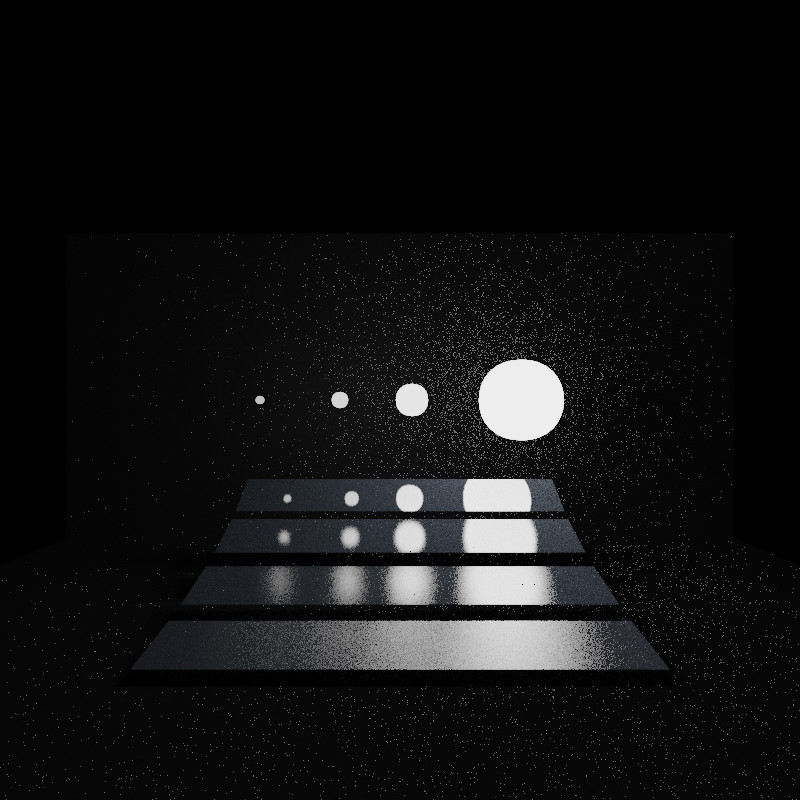
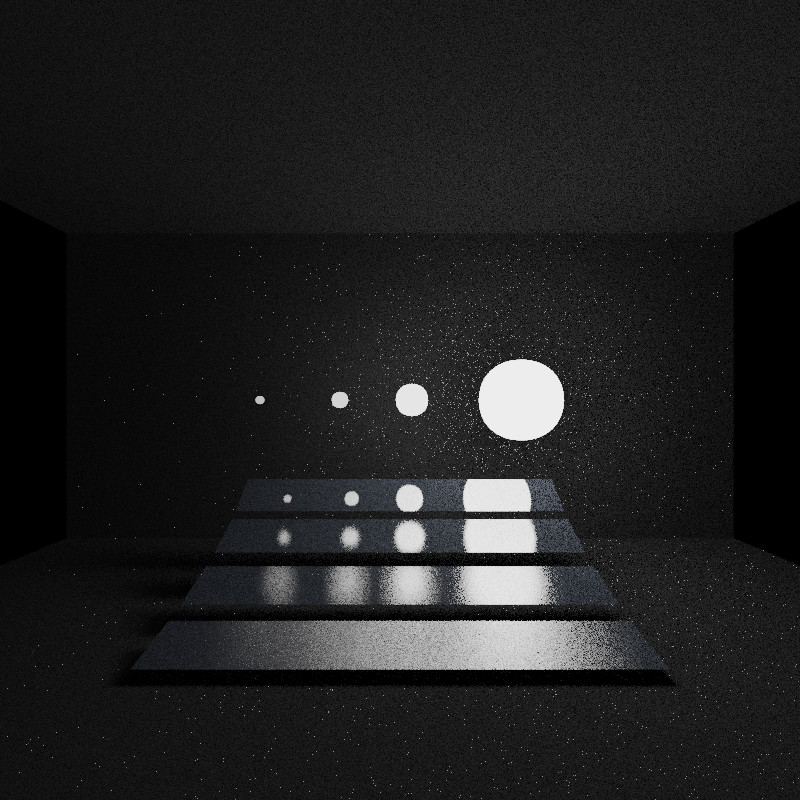
Undo faulty MIS

Changed region(s): [[0.125, 0.0, 1.0, 1.0]]

diff --git a/Src/Integrator/IndirectIlluminationIntegrator.cpp b/Src/Integrator/IndirectIlluminationIntegrator.cpp
@@ -8,6 +8,7 @@ IndirectIlluminationIntegrator::IndirectIlluminationIntegrator(Scene& scene, int
 glm::vec3 IndirectIlluminationIntegrator::EvaluateSample(RTCRayHit& ray, int depth) {
 	glm::vec3 L{ 0.0f }, beta{ 1.0f };
 	float pL{}, pB{};
+	//SurfaceIntersection prev{};
 	while (beta != glm::vec3{ 0.0f }) {
 		glm::vec3 wo{ -ray.ray.dir_x, -ray.ray.dir_y, -ray.ray.dir_z };
 		SurfaceIntersection si{ m_scene.GetIntersection(m_rtcScene, ray) };
@@ -19,21 +20,24 @@ glm::vec3 IndirectIlluminationIntegrator::EvaluateSample(RTCRayHit& ray, int dep
 				L += beta * si.shape->areaLight->Le();
 				break; // Skip if it's an emitter
 			}
-			float wB{ PowerHeuristic(pB, m_lightSampler.Pmf() * si.shape->areaLight->LiPDF()) };
-			L += wB * beta * si.shape->areaLight->Le();
+			//float wB{ PowerHeuristic(pB, m_lightSampler.Pmf() * si.shape->areaLight->LiPDF(si, prev)) };
+			//L += wB * beta * si.shape->areaLight->Le();
 		}
 
 		LiSample li{ m_lightSampler.Sample(m_sampler.GetUV1D())->SampleLi(si, m_sampler.GetUV2D()) };
-		pL = li.pdf * m_lightSampler.Pmf();
 		if (V(si.pos, li.y)) {
 			glm::vec3 wi{ glm::normalize(li.y - si.pos) };
-			float wL{ PowerHeuristic(pL, si.shape->bxdf->PDF(wo, wi, si)) };
 			float g{ G(si.pos, si.normal, li.y, li.normal) };
-			L += wL * beta * si.shape->bxdf->F(wo, wi, si) * g * li.l / pL;
+			L += beta * si.shape->bxdf->F(wo, wi, si) * g * li.l / (li.pdf * m_lightSampler.Pmf());
+			//float dist{ glm::distance(si.pos, li.y) };
+			//li.pdf /= glm::abs(glm::dot(li.normal, -wi)) / (dist * dist);
+			//pL = li.pdf * m_lightSampler.Pmf();
+			//float wL{ PowerHeuristic(pL, si.shape->bxdf->PDF(wo, wi, si)) };
+			//L += wL * beta * si.shape->bxdf->F(wo, wi, si) * li.l * glm::abs(glm::dot(wi, si.normal)) / pL;
 		}
 		BxDFSample bs{ si.shape->bxdf->SampleF(m_sampler.GetUV1D(), m_sampler.GetUV2D(), wo, si) };
-		pB = bs.pdf;
 		beta *= bs.f * glm::abs(glm::dot(bs.wi, si.normal)) / bs.pdf;
+		//pB = bs.pdf;
 
 		float maxComponent{ glm::max(beta.x, glm::max(beta.y, beta.z)) };
 		float q{ glm::max(0.0f, 1.0f - maxComponent) };
@@ -42,6 +46,7 @@ glm::vec3 IndirectIlluminationIntegrator::EvaluateSample(RTCRayHit& ray, int dep
 		}
 		beta /= 1.0f - q;
 		ray = CreateRayHit(si.pos, bs.wi, 0.001f);
+		//prev = si;
 	}
 
 	return L;

diff --git a/Src/Scene/Light/AreaLight.cpp b/Src/Scene/Light/AreaLight.cpp
@@ -15,8 +15,10 @@ LiSample AreaLight::SampleLi(const SurfaceIntersection& si, const glm::vec2& u) 
 	return li;
 }
 
-float AreaLight::LiPDF() const {
-	return 1.0f / m_shape.GetArea();
+float AreaLight::LiPDF(const SurfaceIntersection& si, const SurfaceIntersection& prevSi) const {
+	glm::vec3 wi{ glm::normalize(prevSi.pos - si.pos) };
+	float dist{ glm::length(wi) };
+	return (1.0f / m_shape.GetArea()) / (glm::abs(glm::dot(si.normal, -wi) / (dist * dist)));
 }
 
 glm::vec3 AreaLight::Le() const {

diff --git a/Src/Scene/Light/AreaLight.h b/Src/Scene/Light/AreaLight.h
@@ -9,7 +9,7 @@ public:
 	AreaLight(const Shape& shape, const glm::vec3& radiance, bool twoSided);
 
 	LiSample SampleLi(const SurfaceIntersection& si, const glm::vec2& u) const override; // Uniform
-	float LiPDF() const override;
+	float LiPDF(const SurfaceIntersection& si, const SurfaceIntersection& prevSi) const override;
 	glm::vec3 Le() const override;
 	LightType GetType() const override;
 

diff --git a/Src/Scene/Light/PointLight.h b/Src/Scene/Light/PointLight.h
@@ -7,7 +7,7 @@ public:
 	PointLight(const glm::vec3& pos, const glm::vec3& radiance);
 
 	LiSample SampleLi(const SurfaceIntersection& si, const glm::vec2& u) const override;
-	float LiPDF() const override;
+	float LiPDF(const SurfaceIntersection& si, const SurfaceIntersection& prevSi) const override;
 	glm::vec3 Le() const override;
 	LightType GetType() const override;
 

diff --git a/Src/Scene/Light/Light.h b/Src/Scene/Light/Light.h
@@ -19,7 +19,7 @@ enum class LightType {
 class Light {
 public:
 	virtual LiSample SampleLi(const SurfaceIntersection& si, const glm::vec2& u) const = 0;
-	virtual float LiPDF() const = 0;
+	virtual float LiPDF(const SurfaceIntersection& si, const SurfaceIntersection& prevSi) const = 0;
 	virtual glm::vec3 Le() const = 0;
 	virtual LightType GetType() const = 0;
 

diff --git a/Src/Scene/Light/PointLight.cpp b/Src/Scene/Light/PointLight.cpp
@@ -7,7 +7,7 @@ LiSample PointLight::SampleLi(const SurfaceIntersection& si, const glm::vec2& u)
 	return LiSample{Le(), m_pos, glm::normalize(m_pos - si.pos), 1.0f};
 }
 
-float PointLight::LiPDF() const {
+float PointLight::LiPDF(const SurfaceIntersection& si, const SurfaceIntersection& prevSi) const {
 	return 1.0f;
 }
 
